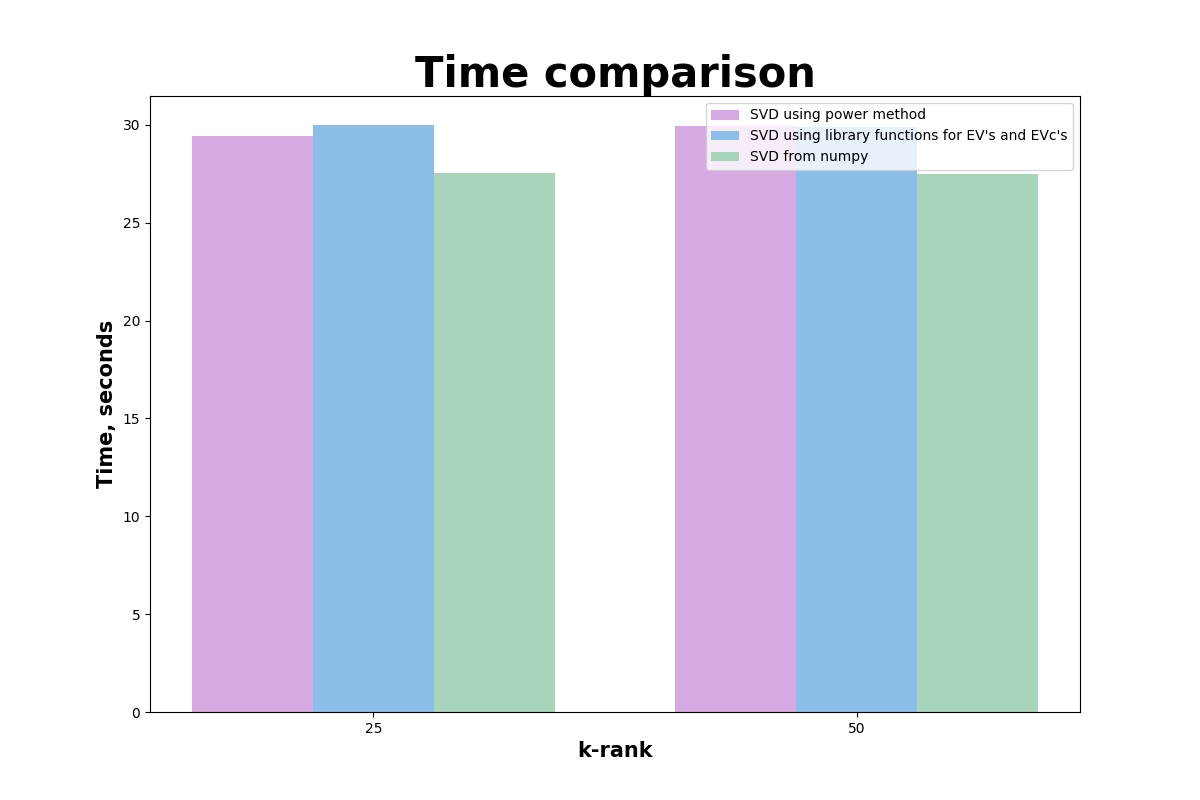
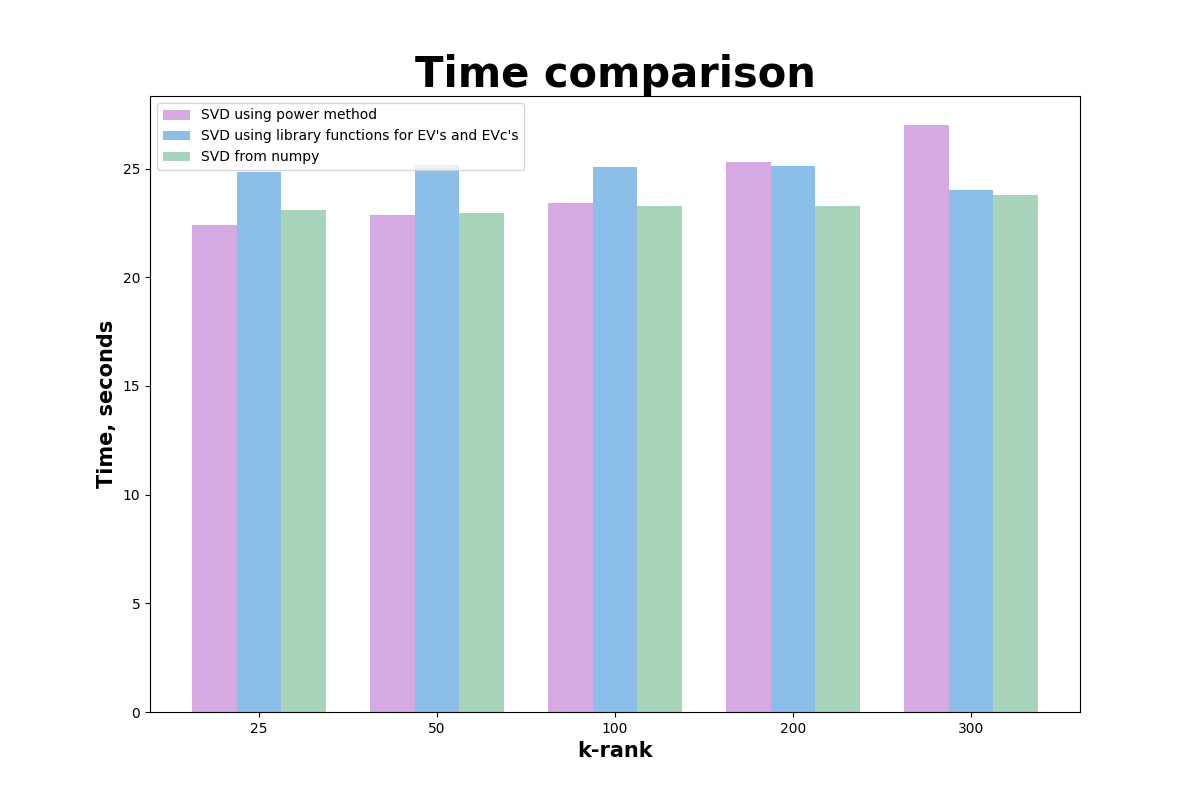
small fixes and time comparison graph

diff --git a/python_files/analyzing_results.py b/python_files/analyzing_results.py
@@ -5,6 +5,9 @@ from numpy import arange
 import time
 
 
+k_list = [25, 50, 100, 200, 300]
+
+
 def run_python_file(path, k, svd_type):
     try:
 
@@ -51,7 +54,7 @@ def build_graphs(svd_qr_times_list, svd_ev_ec_times_list, svd_numpy_times_list):
     plt.ylabel("Time, seconds", fontweight="bold", fontsize=15)
     plt.xticks(
         [r + barWidth for r in range(len(svd_qr_times_list))],
-        [25, 50],
+        k_list,
     )
     plt.legend()
     plt.savefig(f"../graphs/graph.png")
@@ -62,7 +65,7 @@ def main():
     times_list = []
     for i in [0, 1, 2]:
         t = []
-        for j in [25, 50]:
+        for j in k_list:
             start = time.time()
             run_python_file("../testing_faces/yaleB01/yaleB01_P00A-005E-10.pgm", j, i)
             end = time.time()
